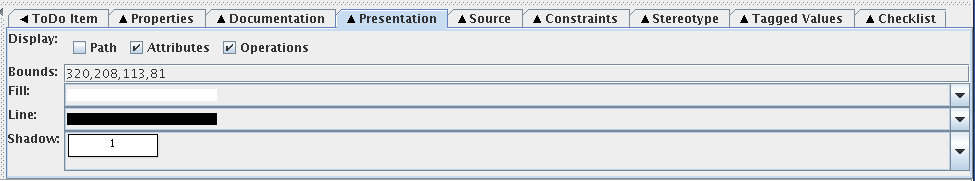
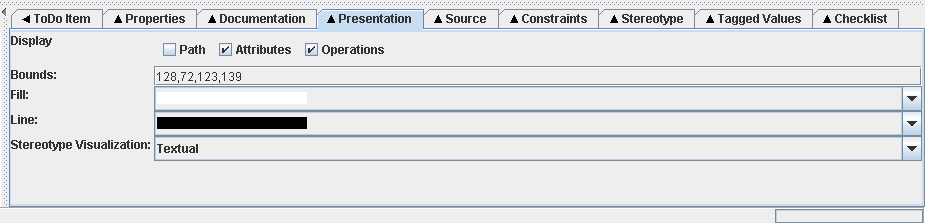
More updates for the tour.

Changed region(s): [[0.0, 0.0, 1.0, 1.0]]

diff --git a/www/tours/tabstyle.html b/www/tours/tabstyle.html
@@ -21,7 +21,8 @@ for a class, you can
 toggle the visibility of the path in front of the class-name,
 toggle the visibility of the attributes and operations compartiments, 
 set the line and filling color, 
-and adjust the width of the shadow. 
+and adjust the way stereotypes are represented:
+textual or by icon.
 </P>
 
 
